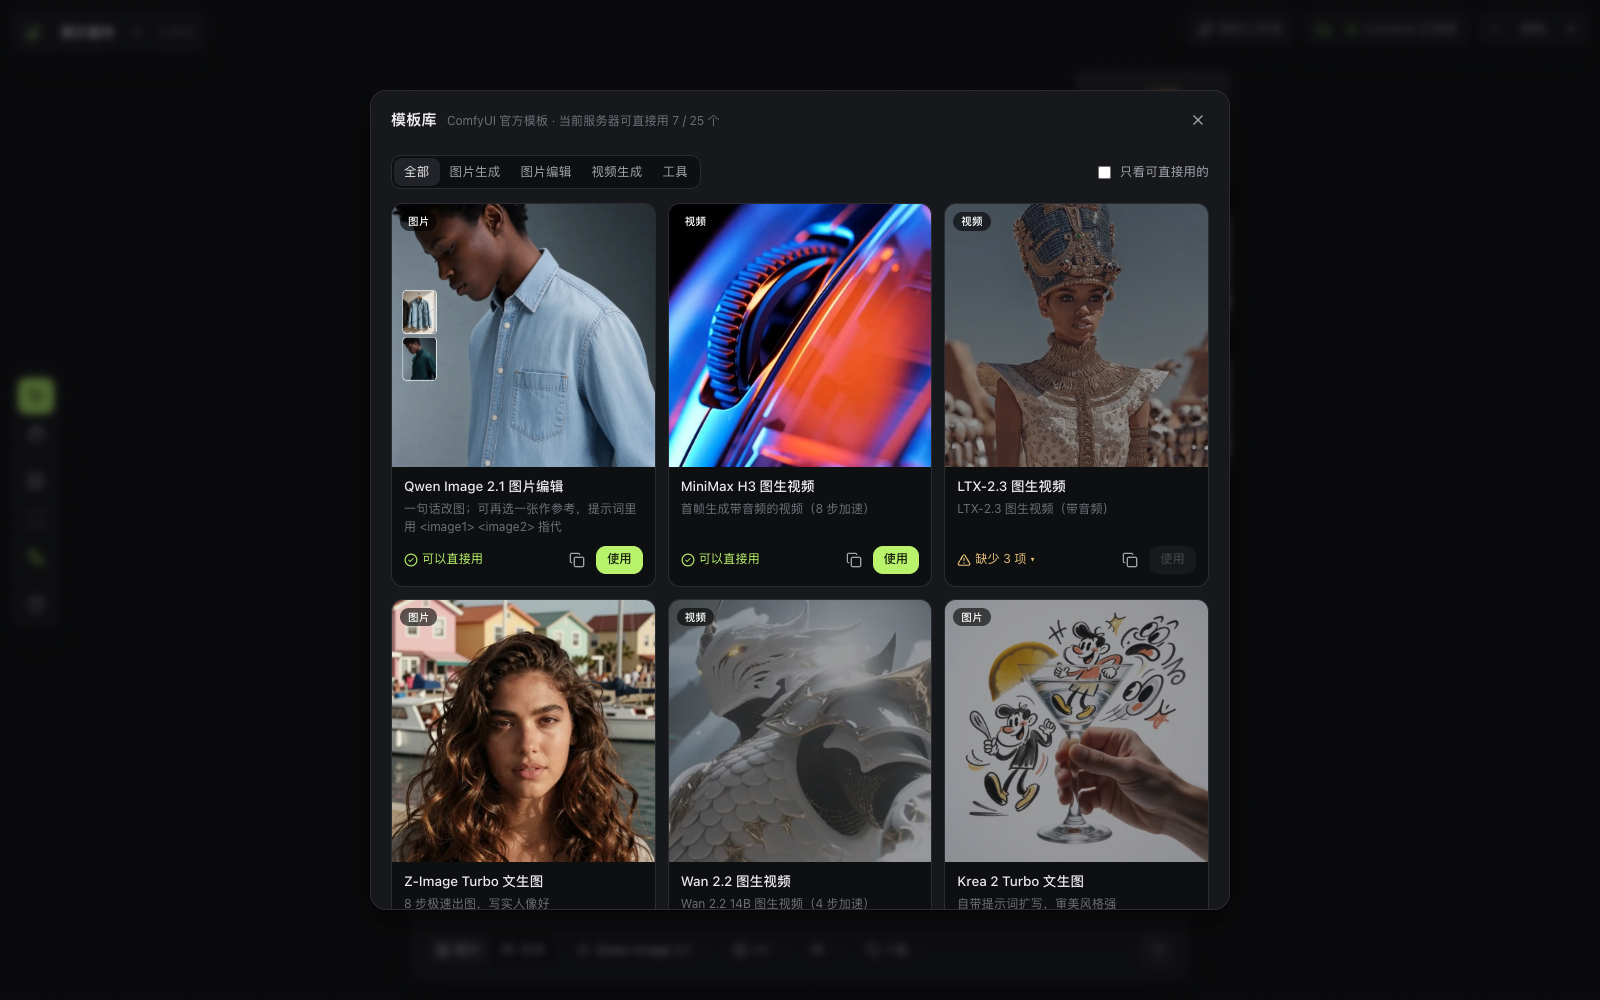
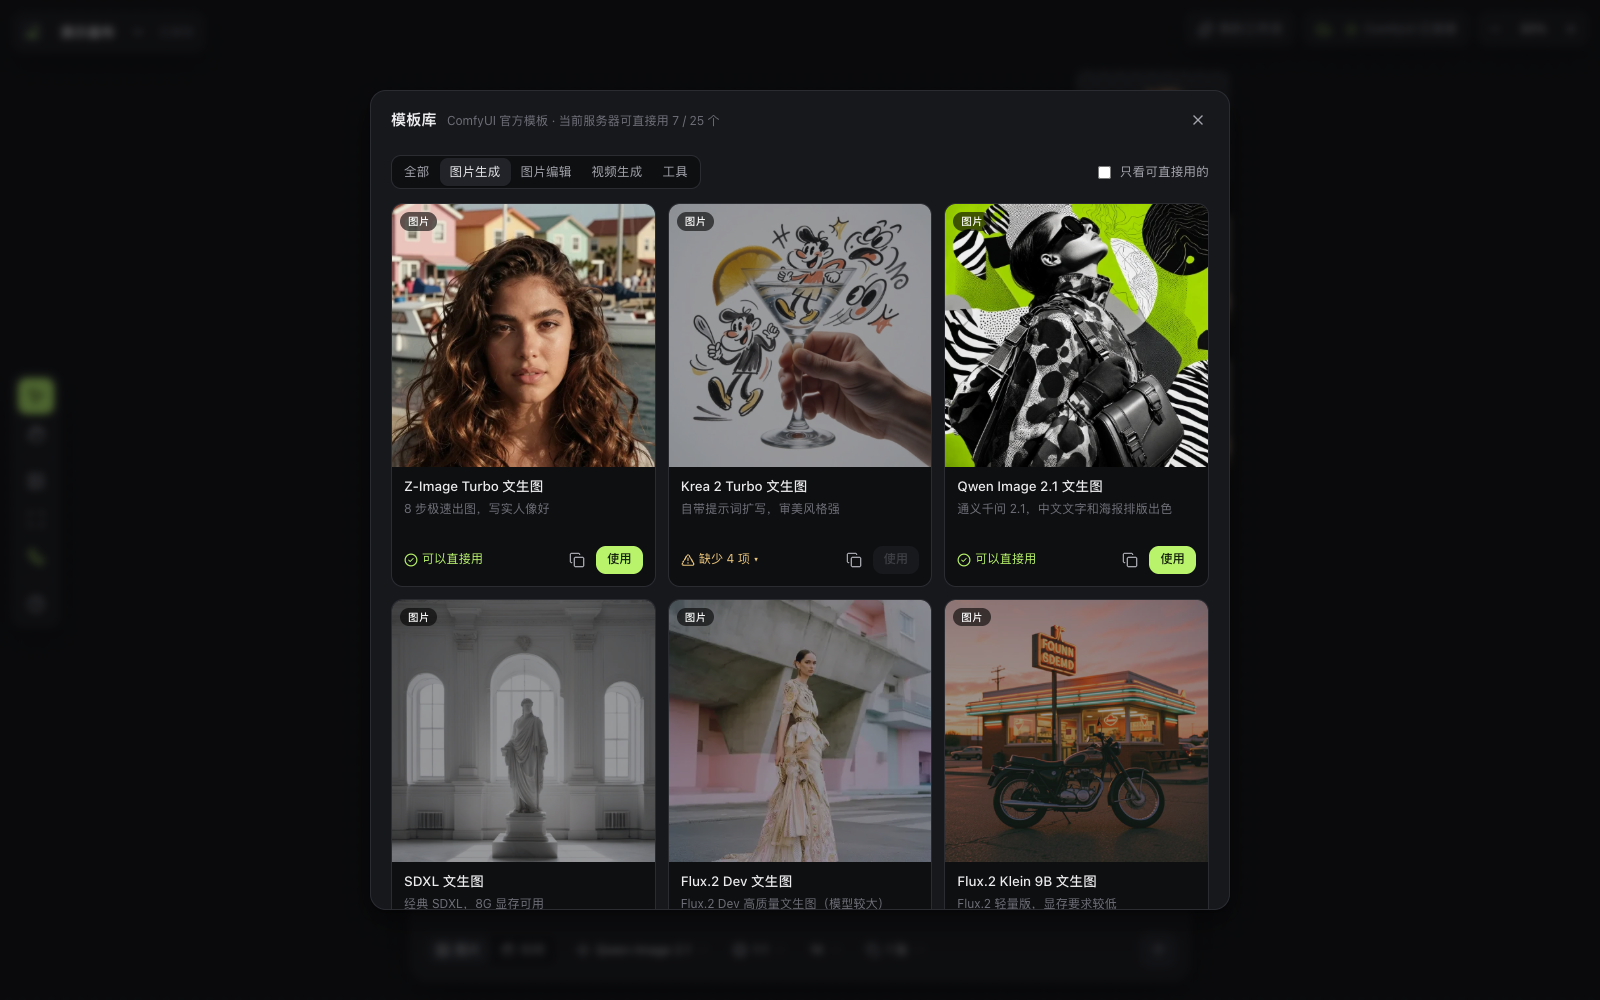
Remember the template category; refresh README media
- Template gallery reopens on the category the user looked at last
- New demo GIF and template / import screenshots: no MiniMax H3 output
  in the project's own media (its license excludes some regions)

Changed region(s): [[0.2188, 0.155, 0.7812, 0.93]]

diff --git a/src/ui/Modals.tsx b/src/ui/Modals.tsx
@@ -592,6 +592,7 @@ function WorkflowEditor({ draft, id }: { draft: WorkflowDraft; id?: string }) {
 // ------------------------------------------------------------------ template gallery
 
 const CATEGORIES = ['全部', '图片生成', '图片编辑', '视频生成', '工具'];
+const CATEGORY_KEY = 'infinode:template-category';
 
 function PresetCard({ p }: { p: PresetInfo }) {
   const caps = useStore((s) => s.caps);
@@ -680,7 +681,15 @@ function PresetCard({ p }: { p: PresetInfo }) {
 function PresetsModal() {
   const presets = useStore((s) => s.presets);
   const caps = useStore((s) => s.caps);
-  const [cat, setCat] = useState('全部');
+  // Reopens on the category the user looked at last.
+  const [cat, setCat] = useState(() => {
+    const saved = localStorage.getItem(CATEGORY_KEY);
+    return saved && CATEGORIES.includes(saved) ? saved : '全部';
+  });
+  const pickCat = (c: string) => {
+    setCat(c);
+    localStorage.setItem(CATEGORY_KEY, c);
+  };
   const [onlyReady, setOnlyReady] = useState(false);
   useEffect(() => void loadWorkflows(), []);
   const isReady = (p: PresetInfo) => caps?.comfyOnline && !p.missing.nodes.length && !p.missing.models.length && !p.missing.notes.length;
@@ -702,7 +711,7 @@ function PresetsModal() {
       <div className="tpl-bar">
         <div className="seg">
           {CATEGORIES.map((c) => (
-            <button key={c} className={cat === c ? 'on' : ''} onClick={() => setCat(c)}>
+            <button key={c} className={cat === c ? 'on' : ''} onClick={() => pickCat(c)}>
               {c}
             </button>
           ))}
